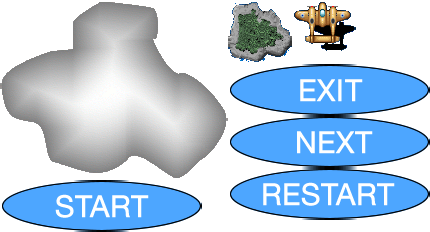
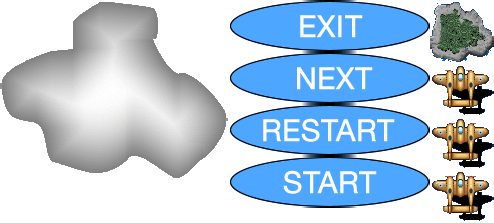
added simple propellor animation for plane - close issue #13

diff --git a/Scripts/core/game.ts b/Scripts/core/game.ts
@@ -87,26 +87,31 @@ namespace core {
 
             "frames": [
                 [1, 1, 226, 178, 0, 0, 0],
-                [229, 1, 62, 62, 0, 0, 0],
-                [229, 65, 200, 50, 0, 0, 0],
-                [229, 117, 200, 50, 0, 0, 0],
-                [229, 169, 200, 50, 0, 0, 0],
-                [1, 181, 200, 50, 0, 0, 0],
-                [293, 1, 62, 51, 0, -3, -9]
+                [229, 1, 200, 50, 0, 0, 0],
+                [431, 1, 62, 62, 0, 0, 0],
+                [229, 53, 200, 50, 0, 0, 0],
+                [431, 65, 62, 51, 0, -3, -9],
+                [229, 105, 200, 50, 0, 0, 0],
+                [431, 118, 62, 51, 0, -3, -9],
+                [229, 157, 200, 50, 0, 0, 0],
+                [431, 171, 62, 51, 0, -3, -9]
             ],
 
             "animations": {
                 "cloud": [0],
-                "island": [1],
-                "exitButton": [2],
+                "exitButton": [1],
+                "island": [2],
                 "nextButton": [3],
-                "restartButton": [4],
-                "startButton": [5],
-                "plane": [6]
+                "restartButton": [5],
+                "startButton": [7],
+                "plane": {
+                    "frames":[4,6,8],
+                    "speed": 0.5
+                } 
             }
 
         };
-        
+
         // added textureAtlas
         textureAtlas = new createjs.SpriteSheet(atlasData);
 

diff --git a/Scripts/core/game.js b/Scripts/core/game.js
@@ -59,21 +59,26 @@ var core;
             ],
             "frames": [
                 [1, 1, 226, 178, 0, 0, 0],
-                [229, 1, 62, 62, 0, 0, 0],
-                [229, 65, 200, 50, 0, 0, 0],
-                [229, 117, 200, 50, 0, 0, 0],
-                [229, 169, 200, 50, 0, 0, 0],
-                [1, 181, 200, 50, 0, 0, 0],
-                [293, 1, 62, 51, 0, -3, -9]
+                [229, 1, 200, 50, 0, 0, 0],
+                [431, 1, 62, 62, 0, 0, 0],
+                [229, 53, 200, 50, 0, 0, 0],
+                [431, 65, 62, 51, 0, -3, -9],
+                [229, 105, 200, 50, 0, 0, 0],
+                [431, 118, 62, 51, 0, -3, -9],
+                [229, 157, 200, 50, 0, 0, 0],
+                [431, 171, 62, 51, 0, -3, -9]
             ],
             "animations": {
                 "cloud": [0],
-                "island": [1],
-                "exitButton": [2],
+                "exitButton": [1],
+                "island": [2],
                 "nextButton": [3],
-                "restartButton": [4],
-                "startButton": [5],
-                "plane": [6]
+                "restartButton": [5],
+                "startButton": [7],
+                "plane": {
+                    "frames": [4, 6, 8],
+                    "speed": 0.5
+                }
             }
         };
         // added textureAtlas
